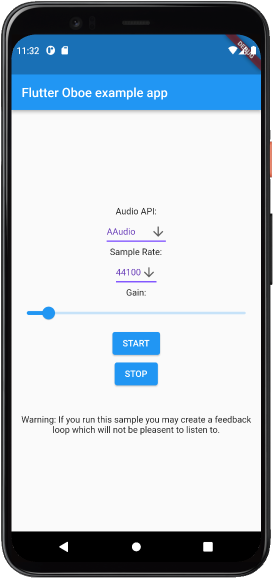
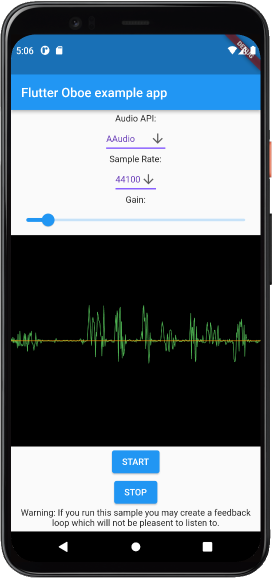
integrated Oscilloscope viewer for processed audio output samples received via Native Port

diff --git a/lib/main.dart b/lib/main.dart
@@ -1,7 +1,9 @@
+import 'dart:async';
+import 'dart:typed_data';
 import 'package:flutter/material.dart';
 import 'package:permission_handler/permission_handler.dart';
 import 'package:flutter_oboe/flutter_oboe.dart';
-import 'dart:async';
+import 'package:oscilloscope/oscilloscope.dart';
 
 void main(){
   runApp(MyApp());
@@ -13,17 +15,23 @@ class MyApp extends StatefulWidget{
 }
 
 class MyAppState extends State<MyApp>{
-  // parameters
+  // oboe parameters
   int recordingDeviceId = 0;
   int playbackDeviceId = 0;
   int api = 0; // OBOE_API_AAUDIO = 0, OBOE_API_OPENSL_ES = 1
   int sampleRate = 44100;
-  int framesPerBurst = 0; // default
   double gain = 1.0; // amplification
+  int framesPerBurst = 0; // default = 0
+
+  // oscilloscope parameters
+  int osciUpdateRate = 10; // in Hz
 
   late FlutterOboe stream;
   late bool engineCreated;
   late bool aaudioRecommended;
+  List<double> osciSamples = [];
+  int sampleCount = 0;
+  double sampleMax = 0.0;
 
   @override
   void initState(){
@@ -37,6 +45,9 @@ class MyAppState extends State<MyApp>{
 
     // initialize native messenging between Oboe and Flutter
     stream.initNativeMessenging();
+
+    // register the callback port to receive the output sample buffers from Oboe
+    receiveSamples();
 
     // create Oboe audio stream
     engineCreated = stream.engineCreate();
@@ -60,6 +71,7 @@ class MyAppState extends State<MyApp>{
           child: Column(
             mainAxisAlignment: MainAxisAlignment.center,
             children: <Widget>[
+              SizedBox(height: 10),
               Text('Audio API:'),
               DropdownButton<int>(
                 value: api,
@@ -119,6 +131,20 @@ class MyAppState extends State<MyApp>{
                   });
                 },
               ),
+              Expanded(
+                  flex:1,
+                  child: Oscilloscope(
+                    showYAxis: true,
+                    yAxisColor: Colors.orange,
+                    margin: EdgeInsets.all(0.0),
+                    strokeWidth: 1.0,
+                    backgroundColor: Colors.black,
+                    traceColor: Colors.green,
+                    yAxisMax: 1.0,
+                    yAxisMin: -1.0,
+                    dataSet: osciSamples,
+                  )
+              ),
               ElevatedButton(
                 child: Text('START'),
                 onPressed: start,
@@ -127,9 +153,10 @@ class MyAppState extends State<MyApp>{
                 child: Text('STOP'),
                 onPressed: stop,
               ),
-              SizedBox(height: 40),
               Text('Warning: If you run this sample you may create a feedback '
-                  'loop which will not be pleasent to listen to.', textAlign: TextAlign.center,),
+                  'loop which will not be pleasent to listen to.',
+                  textAlign: TextAlign.center,),
+              SizedBox(height: 5),
             ],
           ),
         ),
@@ -148,7 +175,7 @@ class MyAppState extends State<MyApp>{
     stream.engineSetAPI(api);
     // set sample rate
     stream.engineNative1setDefaultStreamValues(sampleRate, framesPerBurst);
-    // start Oboe audio passthrough
+    // start Oboe audio passthrough (input buffer - processing - output buffer)
     stream.engineSetEffectOn(true);
   }
 
@@ -161,17 +188,37 @@ class MyAppState extends State<MyApp>{
     engineCreated = false;
   }
 
-  String apiToString(int api){
-    String apiString = 'AAudio';
-    switch (api) {
-      case 0:
-      apiString = 'AAudio';
-      break;
-    case 1:
-      apiString = 'OpenSL ES';
-      break;
+  void receiveSamples(){
+    // receive the output sample buffer from Oboe from callback port
+    stream.interactiveCppRequests
+      .listen((data) {
+        Float32List sampleBuffer = Float32List.view(data.buffer);
+        // monitor the samples
+        monitorSamples(sampleBuffer);
+      });
+  }
+
+  void monitorSamples(Float32List sampleBuffer){
+
+    // get maximum sample in update interval
+    for (int n = 0; n < sampleBuffer.length; n++) {
+      if (sampleBuffer[n].toDouble().abs() > sampleMax.abs()) {
+        sampleMax = sampleBuffer[n].toDouble();
+      }
     }
-    return apiString;
+    sampleCount = sampleCount + sampleBuffer.length;
+
+    // update oscilloscope with maximum sample
+    // (oscilloscope drawing too slow for real-time update)
+    if(sampleCount > sampleRate / osciUpdateRate){
+      setState(() {
+        osciSamples.add(sampleMax);
+      });
+
+      // reset
+      sampleCount = 0;
+      sampleMax = 0;
+    }
   }
 
   Future<void> getMicrophonePermission() async {
@@ -180,4 +227,18 @@ class MyAppState extends State<MyApp>{
       print('Microphone permission not granted');
     }
   }
+
+  String apiToString(int api){
+    String apiString = 'AAudio';
+    switch (api) {
+      case 0:
+        apiString = 'AAudio';
+        break;
+      case 1:
+        apiString = 'OpenSL ES';
+        break;
+    }
+    return apiString;
+  }
 }
+

diff --git a/lib/flutter_oboe.dart b/lib/flutter_oboe.dart
@@ -49,65 +49,71 @@ class FlutterOboe {
   late LiveEffectEngineNative1setDefaultStreamValues engineNative1setDefaultStreamValues;
   late LiveEffectEngineSetGain engineSetGain;
 
-  late DynamicLibrary oboeLib;
+  late DynamicLibrary _oboeLib;
+  late ReceivePort interactiveCppRequests;
 
   FlutterOboe(){
 
-    oboeLib = DynamicLibrary.open('libflutter_oboe.so');
+    _oboeLib = DynamicLibrary.open('libflutter_oboe.so');
 
-    engineCreate = oboeLib
+    engineCreate = _oboeLib
       .lookup<NativeFunction<LiveEffectEngine_create>>('LiveEffectEngine_create')
       .asFunction();
 
-    engineDelete = oboeLib
+    engineDelete = _oboeLib
         .lookup<NativeFunction<LiveEffectEngine_delete>>('LiveEffectEngine_delete')
         .asFunction();
 
-    engineSetEffectOn = oboeLib
+    engineSetEffectOn = _oboeLib
         .lookup<NativeFunction<LiveEffectEngine_setEffectOn>>('LiveEffectEngine_setEffectOn')
         .asFunction();
 
-    engineSetRecordingDeviceId = oboeLib
+    engineSetRecordingDeviceId = _oboeLib
         .lookup<NativeFunction<LiveEffectEngine_setRecordingDeviceId>>('LiveEffectEngine_setRecordingDeviceId')
         .asFunction();
 
-    engineSetPlaybackDeviceId = oboeLib
+    engineSetPlaybackDeviceId = _oboeLib
         .lookup<NativeFunction<LiveEffectEngine_setPlaybackDeviceId>>('LiveEffectEngine_setPlaybackDeviceId')
         .asFunction();
 
-    engineSetAPI = oboeLib
+    engineSetAPI = _oboeLib
         .lookup<NativeFunction<LiveEffectEngine_setAPI>>('LiveEffectEngine_setAPI')
         .asFunction();
 
-    engineIsAAudioRecommended = oboeLib
+    engineIsAAudioRecommended = _oboeLib
         .lookup<NativeFunction<LiveEffectEngine_isAAudioRecommended>>('LiveEffectEngine_isAAudioRecommended')
         .asFunction();
 
-    engineNative1setDefaultStreamValues = oboeLib
+    engineNative1setDefaultStreamValues = _oboeLib
         .lookup<NativeFunction<LiveEffectEngine_native_1setDefaultStreamValues>>('LiveEffectEngine_native_1setDefaultStreamValues')
         .asFunction();
-    engineSetGain = oboeLib
+    engineSetGain = _oboeLib
       .lookup<NativeFunction<LiveEffectEngine_setGain>>('LiveEffectEngine_setGain')
       .asFunction();
   }
 
-  // messenging, see https://github.com/audiooffler/JucyFluttering
+  // messenging over Receive Port, see https://github.com/audiooffler/JucyFluttering
   void initNativeMessenging() async {
     // initialize the native dart API
-    final initializeApi = oboeLib.lookupFunction<IntPtr Function(Pointer<Void>),
+    final initializeApi = _oboeLib.lookupFunction<IntPtr Function(Pointer<Void>),
         int Function(Pointer<Void>)>("InitializeDartApi");
     if (initializeApi(NativeApi.initializeApiDLData) != 0) {
       throw "Failed to initialize Dart API";
     }
 
-    final interactiveCppRequests = ReceivePort()
-      ..listen((data) {
-        print('Seconds of OBOE running: ${data}');
-      });
+    interactiveCppRequests = ReceivePort();
+/*      ..listen((data) {
+        Float32List samples = Float32List.view(data.buffer);
+        // for (int i = 0; i < samples.length; i++) {
+            //print(samples[i].toString()); // print the processed samples
+        //}
+        receiveSamples(samples);
+
+      });*/
 
     final int nativePort = interactiveCppRequests.sendPort.nativePort;
 
-    final void Function(int port) setDartApiMessagePort = oboeLib
+    final void Function(int port) setDartApiMessagePort = _oboeLib
         .lookup<NativeFunction<Void Function(Int64 port)>>(
         "SetDartApiMessagePort")
         .asFunction();

diff --git a/android/app/src/main/cpp/c_port.h b/android/app/src/main/cpp/c_port.h
@@ -14,7 +14,8 @@
  * limitations under the License.
  */
 
-#pragma once
+#ifndef C_PORT_H
+#define C_PORT_H
 
 #include "DartApiDL/include/dart_api_dl.h"
 
@@ -39,14 +40,17 @@ EXTERNC void SetDartApiMessagePort(int64_t port)
     DartApiMessagePort = port;
 }
 
-// this will send long integer to dart receiver port as a message
-void sendMsgToFlutter(int64_t msg)
+// this will send float array to dart receiver port as a message
+void sendMsgToFlutter(uint8_t * msg, intptr_t length)
 {
     if (DartApiMessagePort == -1)
       return;
     Dart_CObject obj;
-    obj.type = Dart_CObject_kInt64;
-    obj.value.as_int64 = msg;
+    obj.type = Dart_CObject_kTypedData;
+    obj.value.as_typed_data.type = Dart_TypedData_kFloat32;
+    obj.value.as_typed_data.values = msg;
+    obj.value.as_typed_data.length = length;
     Dart_PostCObject_DL(DartApiMessagePort, &obj);
 }
 
+#endif //C_PORT_H

diff --git a/android/app/src/main/cpp/FullDuplexPass.h b/android/app/src/main/cpp/FullDuplexPass.h
@@ -47,13 +47,14 @@ public:
             *outputFloats++ = *inputFloats++ * gain; // do some arbitrary processing
         }
 
+        // send processed samples to Flutter
+        sendMsg(outputFloats - samplesToProcess, samplesToProcess);
+
         // If there are fewer input samples then clear the rest of the buffer.
         int32_t samplesLeft = numOutputSamples - numInputSamples;
         for (int32_t i = 0; i < samplesLeft; i++) {
             *outputFloats++ = 0.0; // silence
         }
-        sendMsg(64LL);
-
         return oboe::DataCallbackResult::Continue;
     }
 };

diff --git a/android/app/src/main/cpp/FullDuplexStream.cpp b/android/app/src/main/cpp/FullDuplexStream.cpp
@@ -136,6 +136,6 @@ float FullDuplexStream::getGain(){
     return mgain;
 }
 
-void FullDuplexStream::sendMsg(int64_t msg){
-    sendMsgToFlutter(msg);
+void FullDuplexStream::sendMsg(float * msg, int32_t length){
+    sendMsgToFlutter(reinterpret_cast<uint8_t*>(msg), length);
 }

diff --git a/android/app/src/main/cpp/FullDuplexStream.h b/android/app/src/main/cpp/FullDuplexStream.h
@@ -84,7 +84,7 @@ public:
     /**
     * Send message to flutter
     */
-    void sendMsg(int64_t msg);
+    void sendMsg(float * msg, int32_t length);
 
 private:
 
